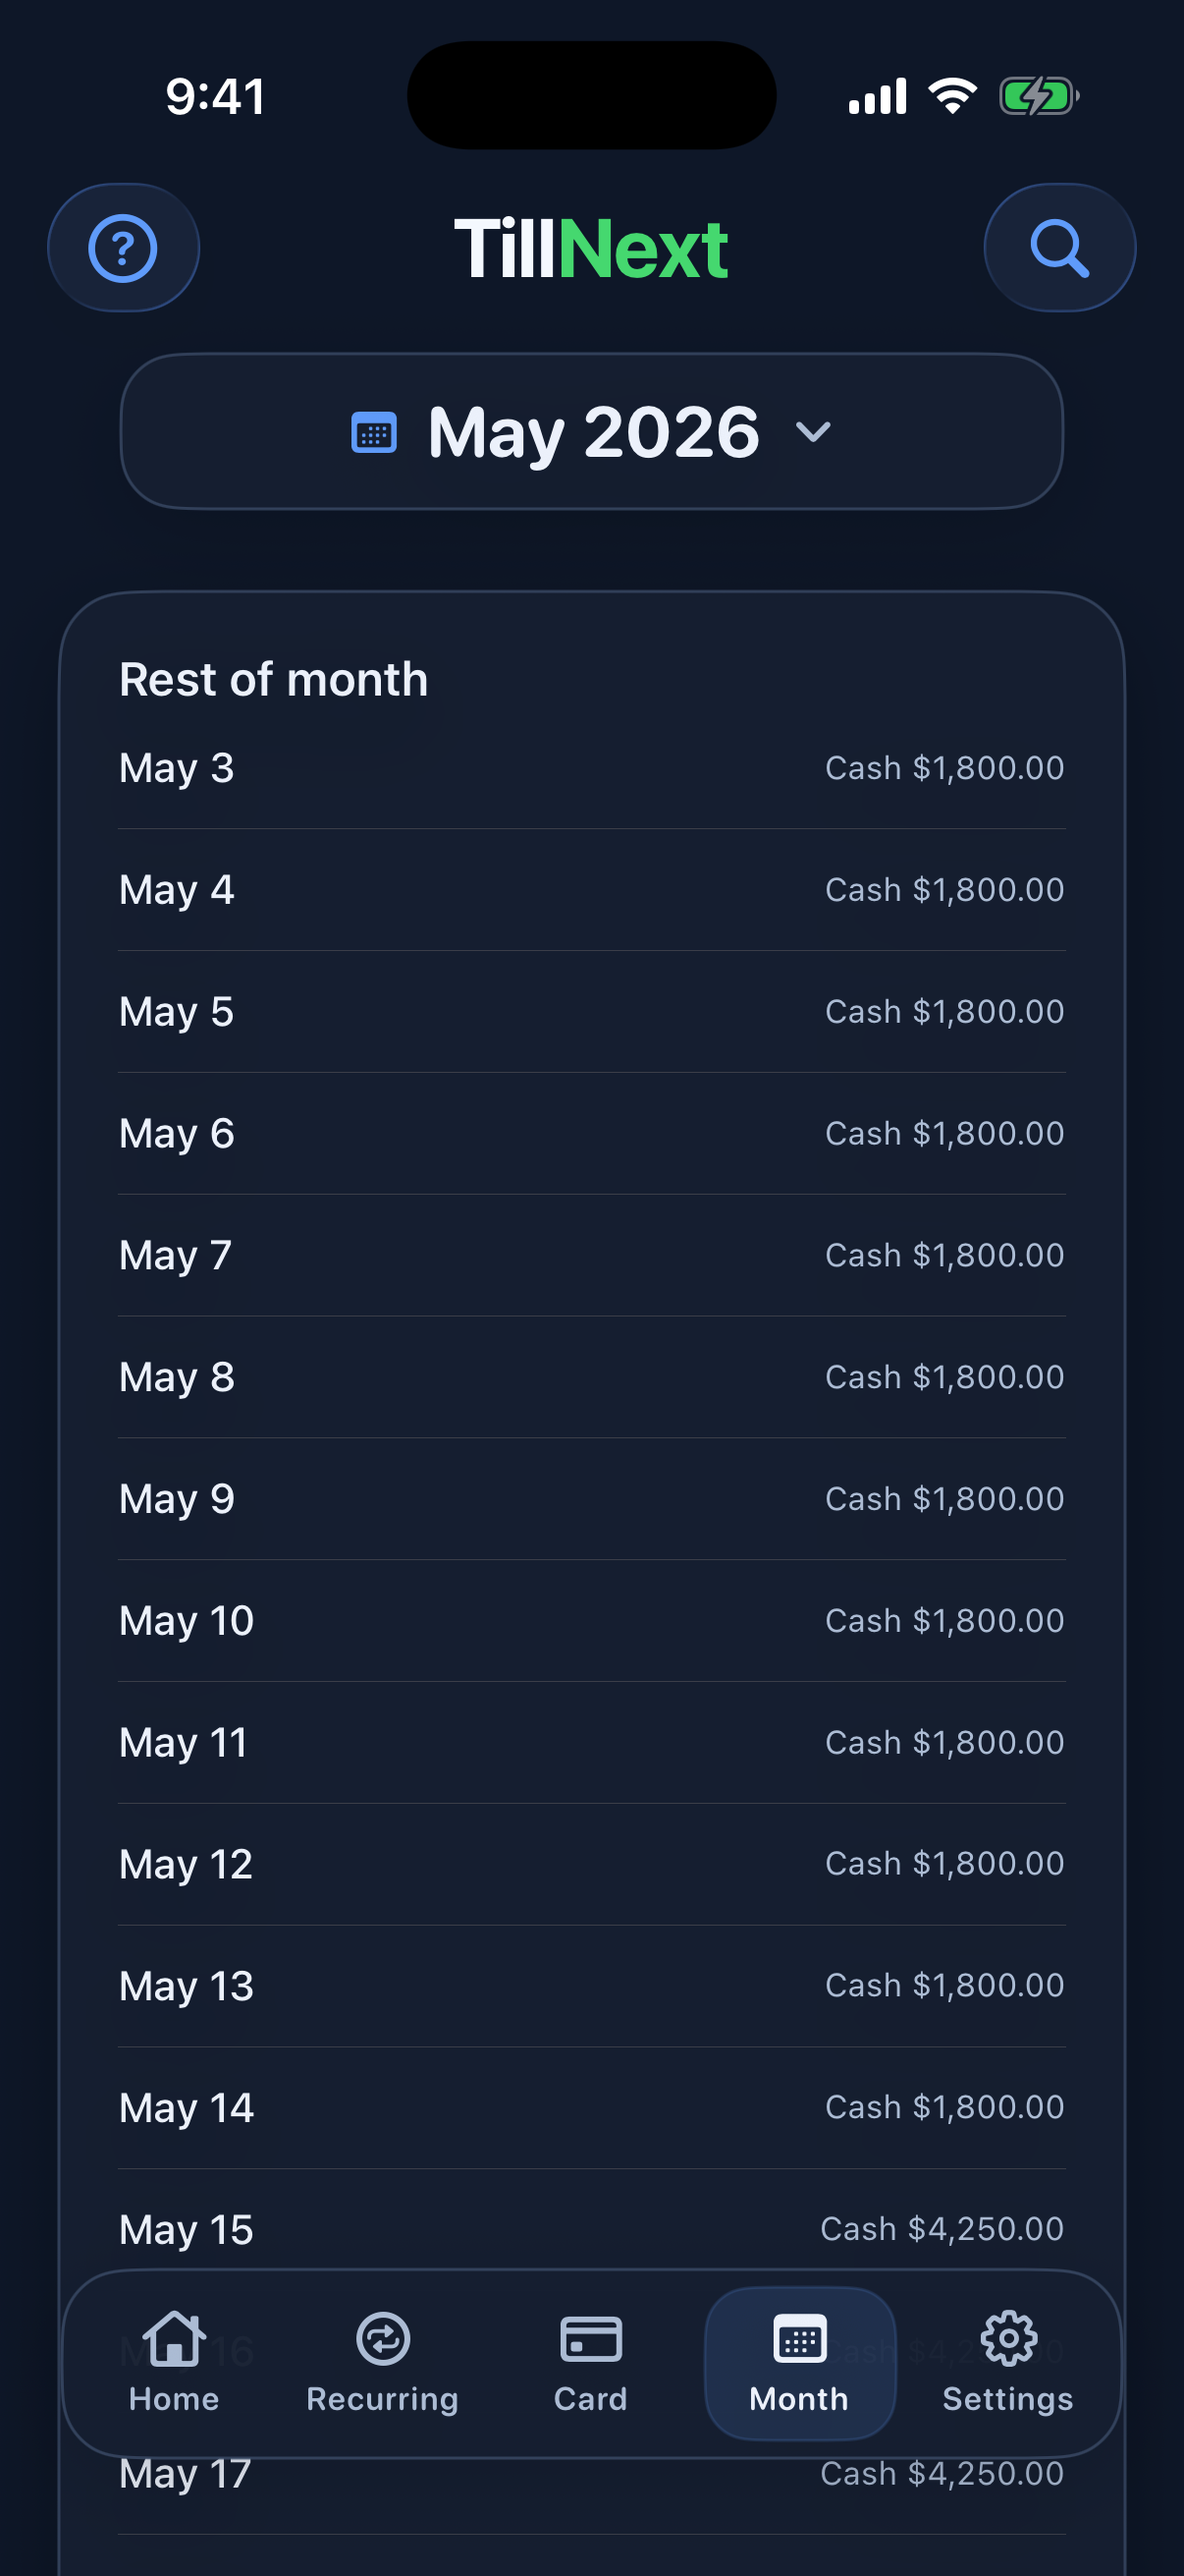
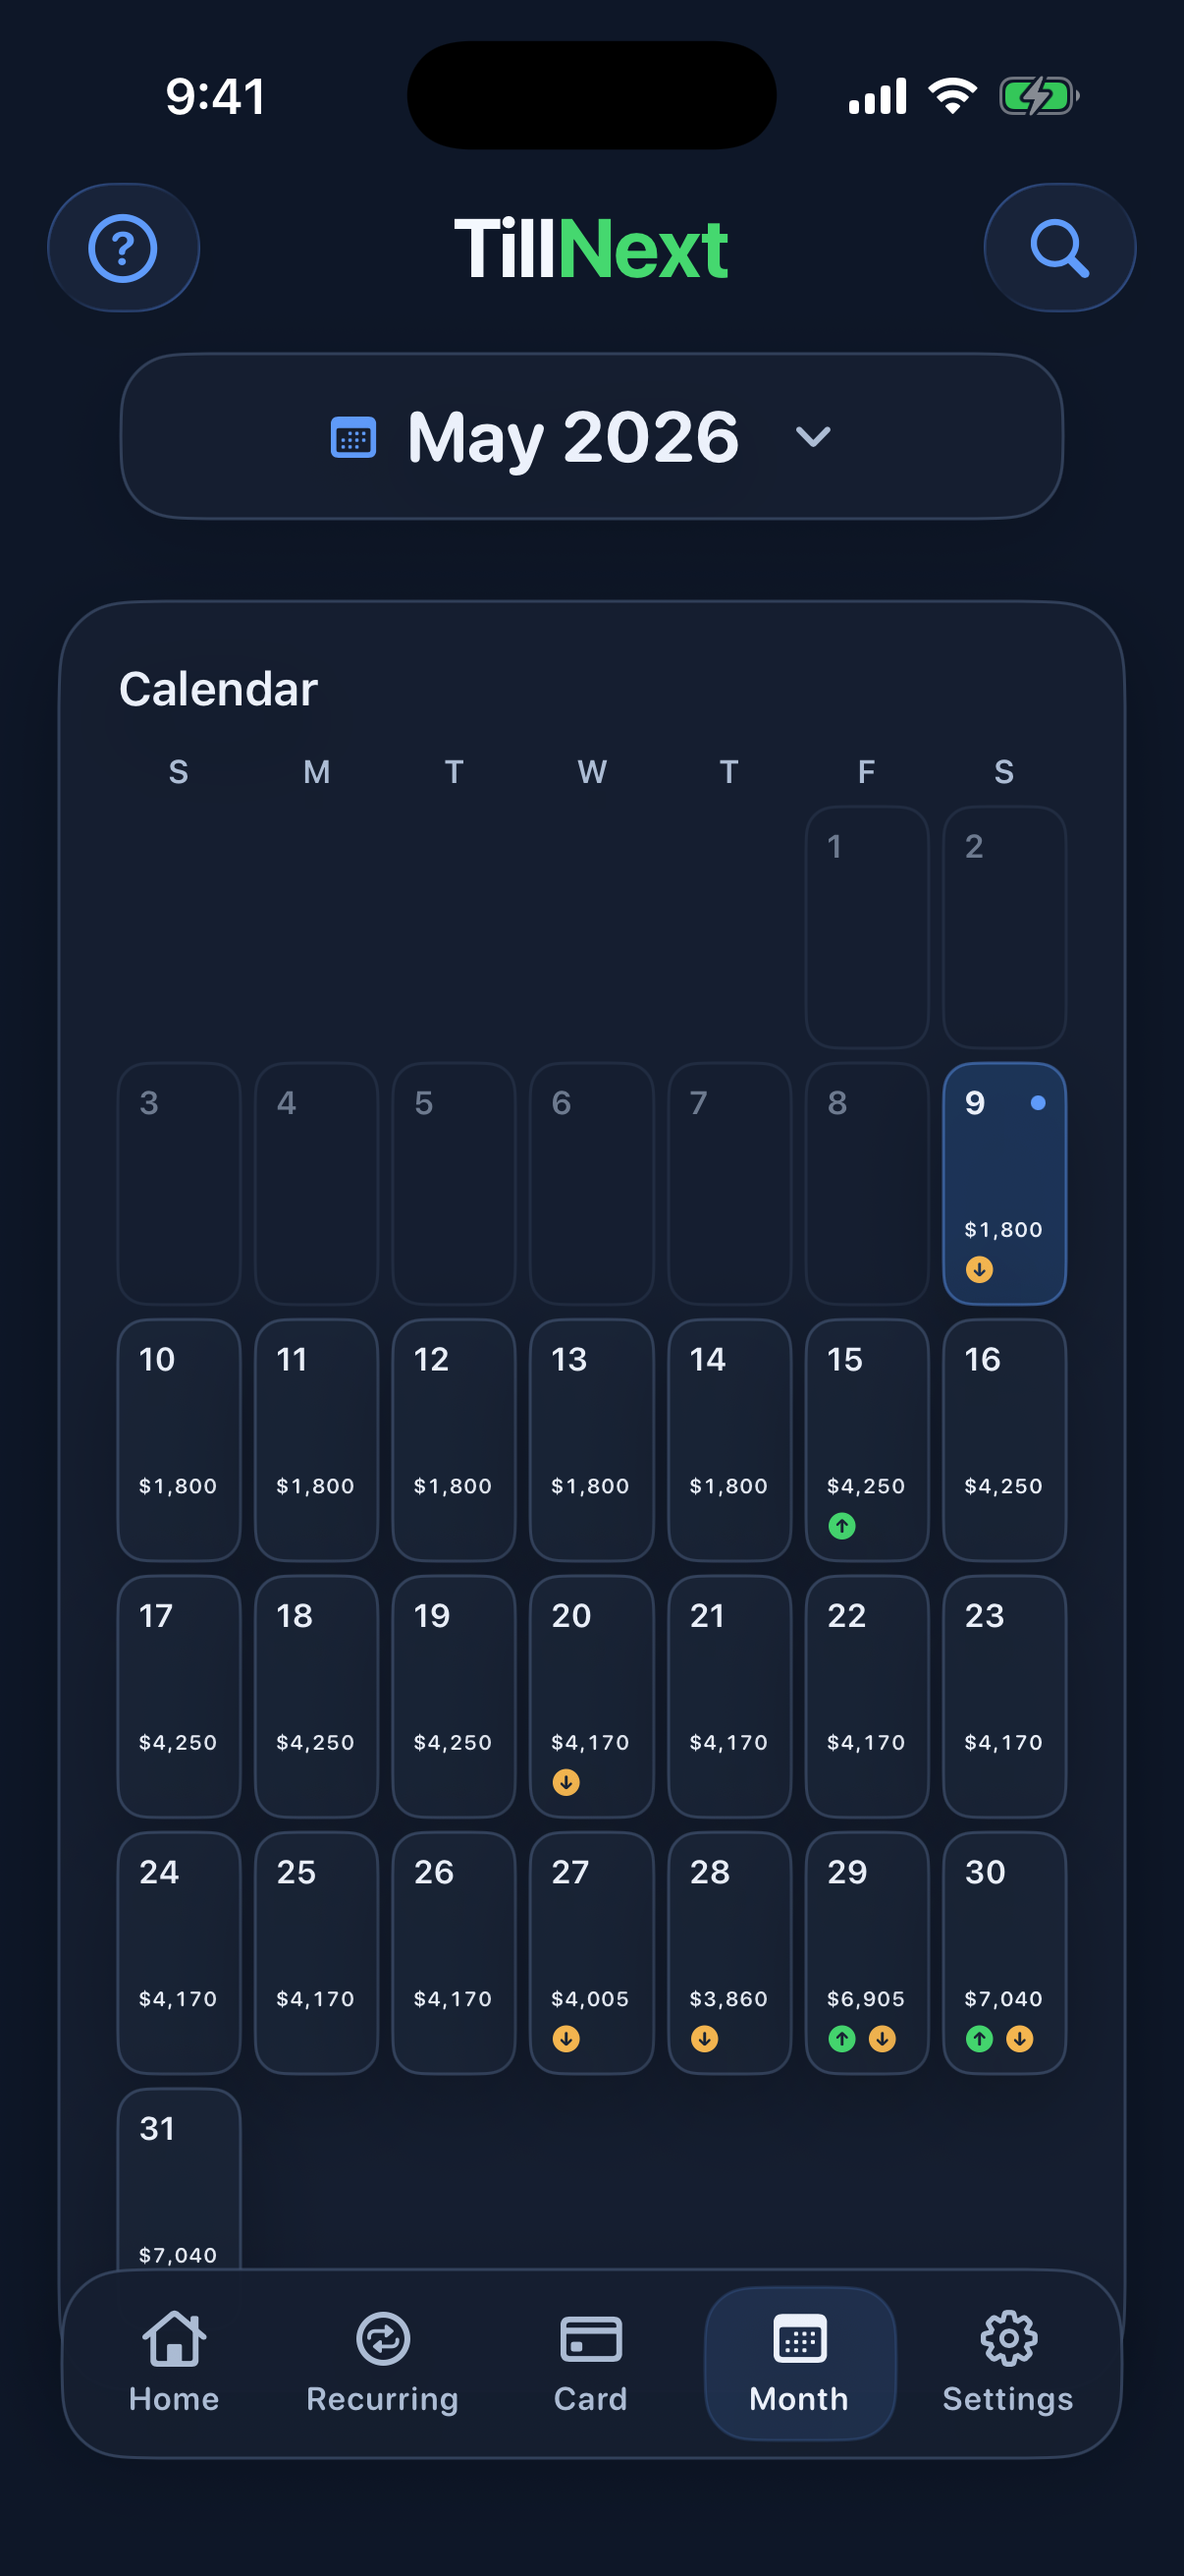
Refresh help screenshots for build 289

diff --git a/changelog/index.html b/changelog/index.html
@@ -5,7 +5,7 @@
     <meta name="viewport" content="width=device-width, initial-scale=1">
     <title>TillNext: Paycheck Planner Changelog</title>
     <meta name="description" content="Public changelog for TillNext: Paycheck Planner.">
-    <link rel="stylesheet" href="../styles.css?v=20260508-build288">
+    <link rel="stylesheet" href="../styles.css?v=20260509-build289">
   </head>
   <body>
     <main>
@@ -20,7 +20,18 @@
       <p>Public notes for meaningful TillNext changes. This page focuses on user-facing updates, privacy posture, and support information.</p>
 
       <h2>Version 1.1.1, Pre-Launch</h2>
-      <p><strong>Updated:</strong> May 8, 2026</p>
+      <p><strong>Updated:</strong> May 9, 2026</p>
+      <h3>May 9, 2026</h3>
+      <ul>
+        <li>Prepared build 289 for pre-launch testing.</li>
+        <li>Made item notes available from a small notes button in edit screens, so the main edit form stays short and easier to scan.</li>
+        <li>Improved recurring expense payoff calculator entry so amount fields respond immediately and open the keyboard more reliably.</li>
+        <li>Fixed one-time expense editing so an empty Payment section no longer appears when there are no payment options to show.</li>
+        <li>Changed Month to open directly as a calendar and removed the old list/calendar setting from Settings.</li>
+        <li>Updated first-run setup so it introduces the current Home, Recurring, Card, Month, and Settings tabs.</li>
+        <li>Improved the bottom month picker placement so the jump picker has more room above the bottom controls.</li>
+      </ul>
+
       <h3>May 8, 2026</h3>
       <ul>
         <li>Prepared build 288 for pre-launch testing.</li>

diff --git a/help/index.html b/help/index.html
@@ -68,13 +68,13 @@
       </ul>
 
       <h2>Review The Month</h2>
-      <p>Month shows the rest of the selected month by day, including cash changes and the projected ending cash for each day.</p>
+      <p>Month shows the selected month as a calendar, including cash changes and the projected ending cash for each day.</p>
       <figure>
         <picture>
           <source srcset="../assets/help-month-dark.png" media="(prefers-color-scheme: dark)">
-          <img src="../assets/help-month.png" alt="TillNext Month screen showing rest-of-month cash detail by day.">
+          <img src="../assets/help-month.png" alt="TillNext Month screen showing calendar cash detail by day.">
         </picture>
-        <figcaption>Month is the place to inspect how planned income and expenses move cash through the rest of the month.</figcaption>
+        <figcaption>Month is the place to inspect how planned income and expenses move cash through the selected month.</figcaption>
       </figure>
       <ul>
         <li>Use the month control to review another month.</li>
@@ -86,7 +86,7 @@
       <figure>
         <picture>
           <source srcset="../assets/help-settings-dark.png" media="(prefers-color-scheme: dark)">
-          <img src="../assets/help-settings.png" alt="TillNext Settings screen showing display, data, and support controls.">
+          <img src="../assets/help-settings.png" alt="TillNext Settings screen showing purchase, data, and first-run guide controls.">
         </picture>
         <figcaption>Settings is where you export CSV data, show or hide the Card tab, reset local data, find help, contact support, and review terms.</figcaption>
       </figure>

diff --git a/index.html b/index.html
@@ -107,7 +107,7 @@
           </picture>
           <picture>
             <source srcset="assets/help-settings-dark.png" media="(prefers-color-scheme: dark)">
-            <img class="phone-shot phone-shot-side" src="assets/help-settings.png" alt="TillNext Settings screen with display, export, privacy, and support controls.">
+            <img class="phone-shot phone-shot-side" src="assets/help-settings.png" alt="TillNext Settings screen with purchase, data, and first-run guide controls.">
           </picture>
           <picture>
             <source srcset="assets/widget-home-dark.png" media="(prefers-color-scheme: dark)">
